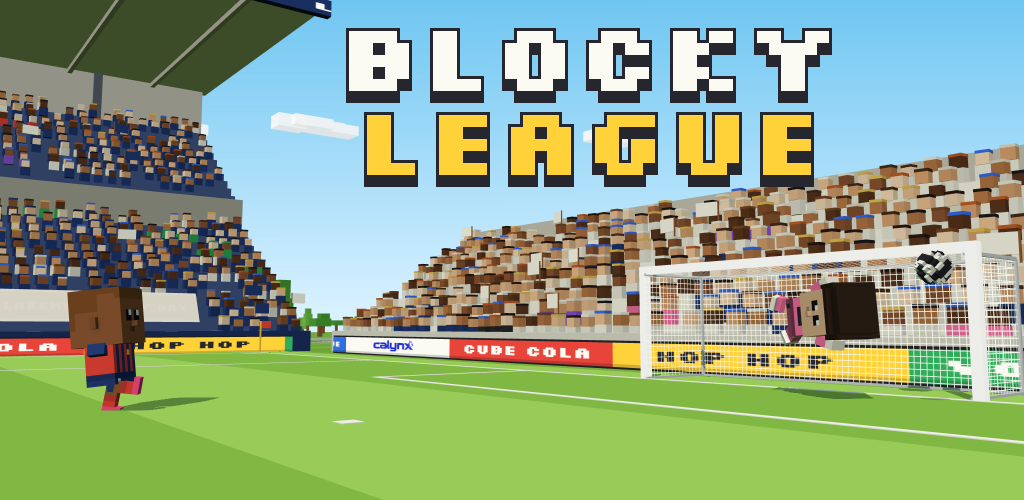
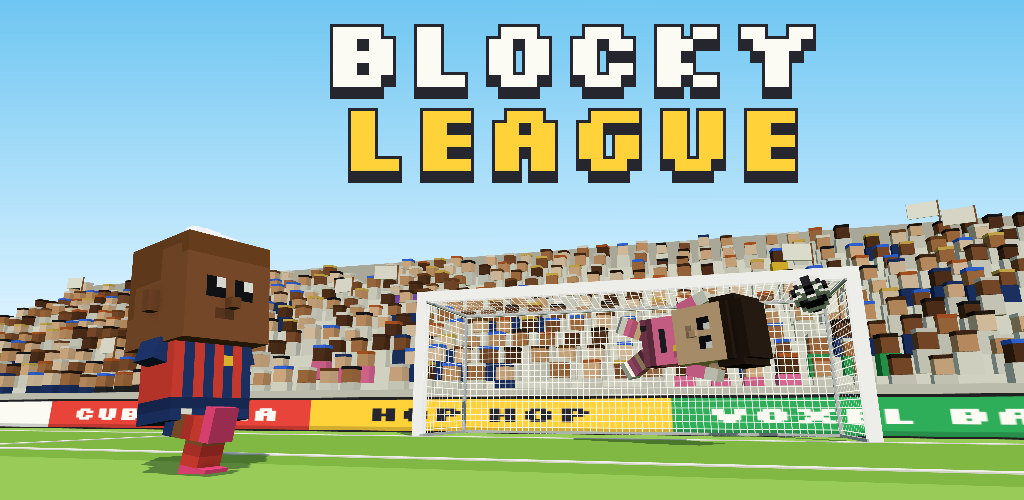
Wide covers reshot low and close: the striker's face, the keeper and the ball read at thumbnail size

diff --git a/docs/BRAND.md b/docs/BRAND.md
@@ -51,7 +51,7 @@ The art style is Crossy Road's: chunky voxels, flat saturated colours, hard shad
 ## Files
 
 Every store and portal file is in the tracked `store-assets/` folder. Web icons are in `public/`. All were checked
-with a Python PNG header read on 29 and 30 Sep 2026: exact size, colour type (2 = RGB, 6 = RGBA), bit depth 8, file size.
+with a Python PNG header read on 29 and 30 Sep 2026 (the wide covers re-checked on 30 Sep): exact size, colour type (2 = RGB, 6 = RGBA), bit depth 8, file size.
 The icon safe zones were measured from the pixels (the content's bounding box or its radius over the flat sky).
 
 ### Logo (`store-assets/logo/`)
@@ -65,7 +65,7 @@ The icon safe zones were measured from the pixels (the content's bounding box or
 | `blocky-league-logo-stacked-on-sky-1600x1600.png` | 1600×1600 RGB, 49.1 KB | On `#5cc8f5` |
 | `blocky-league-logo-horizontal-on-sky-2400x800.png` | 2400×800 RGB, 39.5 KB | On `#5cc8f5` |
 | `blocky-league-mark-on-sky-1024.png` | 1024×1024 RGB, 38.7 KB | On `#5cc8f5` |
-| `../blocky-league-logo-1200x630.png` | 1200×630 RGB, 21.6 KB | Master logo and social card (horizontal lockup, 18 px per cell) |
+| `../blocky-league-logo-1200x630.png` | 1200×630 RGB, 249.3 KB | Master logo card: the full horizontal lockup (16 px per cell) over the wide cover scene |
 
 The SVGs are standalone (`xmlns`, a `viewBox`, `role="img"`) and scale to any size.
 
@@ -100,8 +100,14 @@ How it was staged on the dev snapshot:
 Every size was framed from that same frozen instant, with a camera solved for its aspect, and captured at its exact
 pixel size (DPR 1, the WebGL canvas supersampled 2× to 4× inside it, never upscaled). There are two viewpoints:
 
-- **Wide sizes** (16:9, 2:1, 1.9:1) use a side view: the striker on the left, the goal and keeper on the right, the
-  wordmark in the sky between the main stand's roof and the end stand.
+- **Wide sizes** (16:9, 2:1, 1.9:1, 2.3:1) use a low, close camera (0.6 m up, 44° lens) in front of the striker, so
+  the characters stay readable when a portal shrinks the cover to a 360 px tile. The striker stands in the left
+  foreground at about half the frame height, turned to the lens in three-quarter view with his kicking leg through.
+  The keeper dives at full stretch on the right, and the ball (about 6% of the frame height) is just past his glove
+  in the top corner. The wordmark sits in the sky above the end stand, and very little grass shows. For this view
+  only, the drawn striker is moved to 7 m from goal and turned to face the lens, and the drawn keeper is shifted
+  0.8 m along the line so his glove falls just short of the ball. The sim is untouched. Every wide cover was checked
+  shrunk to 360 px wide (`sips -Z 360`): the striker's face, the keeper and the ball all read.
 - **Square, 4:3 and portrait sizes** use an over-the-shoulder view: the striker in front, the goal and keeper filling
   the middle, the wordmark over the stand.
 
@@ -115,17 +121,17 @@ CrazyGames' title-only rule, and it keeps the feature graphic and key art free o
 
 | File | Size | Title | Spec met |
 |---|---|---|---|
-| `crazygames-landscape-1920x1080.png` | 1920×1080 RGB, 442.5 KB | Wordmark | CrazyGames 16:9; the title is the only text; no icons, logos or borders |
+| `crazygames-landscape-1920x1080.png` | 1920×1080 RGB, 446.6 KB | Wordmark | CrazyGames 16:9; the title is the only text; no icons, logos or borders |
 | `crazygames-portrait-800x1200.png` | 800×1200 RGB, 176.3 KB | Wordmark | CrazyGames 2:3 (same rules); the action fills the middle, the title overlaps the stand |
 | `crazygames-square-800x800.png` | 800×800 RGB, 129.6 KB | Wordmark | CrazyGames 1:1 (same rules) |
 | `poki-thumbnail-1024x1024.png` | 1024×1024 RGB, 194.3 KB | None | Poki: full-bleed square of 628 px or more, no text, a key gameplay moment filling the frame |
-| `google-play-feature-1024x500.png` | 1024×500 RGB (24-bit, no alpha), 203.0 KB | Wordmark | Play feature graphic 1024×500, JPEG or 24-bit PNG, no alpha |
-| `ios-product-page-1200x630.png` | 1200×630 RGB, 250.7 KB | Wordmark | Product page and social card |
-| `keyart-1920x1080.png` | 1920×1080 RGB, 442.5 KB | Wordmark | Key art (the same image as the CrazyGames landscape) |
+| `google-play-feature-1024x500.png` | 1024×500 RGB (24-bit, no alpha), 134.4 KB | Wordmark | Play feature graphic 1024×500, JPEG or 24-bit PNG, no alpha |
+| `ios-product-page-1200x630.png` | 1200×630 RGB, 237.2 KB | Wordmark | Product page and social card |
+| `keyart-1920x1080.png` | 1920×1080 RGB, 446.6 KB | Wordmark | Key art (the same image as the CrazyGames landscape) |
 | `itch-cover-630x500.png` | 630×500 RGB, 85.9 KB | Wordmark | itch.io cover 630×500 |
 | `gamedistribution-512x512.png`, `-512x384.png`, `-200x120.png` | RGB, 85.1 / 59.9 / 20.2 KB | Wordmark | GameDistribution's mandatory thumbnails |
-| `gamedistribution-1280x720.png`, `-1280x550.png` | RGB, 275.3 / 256.0 KB | Wordmark | GameDistribution's optional banners |
-| `public/og-image.png` | 1200×630 RGB, 250.7 KB | Wordmark | `og:image` / `twitter:image` (same file as the product page) |
+| `gamedistribution-1280x720.png`, `-1280x550.png` | RGB, 267.0 / 228.2 KB | Wordmark | GameDistribution's optional banners |
+| `public/og-image.png` | 1200×630 RGB, 237.2 KB | Wordmark | `og:image` / `twitter:image` (same file as the product page) |
 
 The in-world sponsor boards (calynx, CUBE COLA, HOP HOP, VOXEL BANK) are part of the scene.
 
